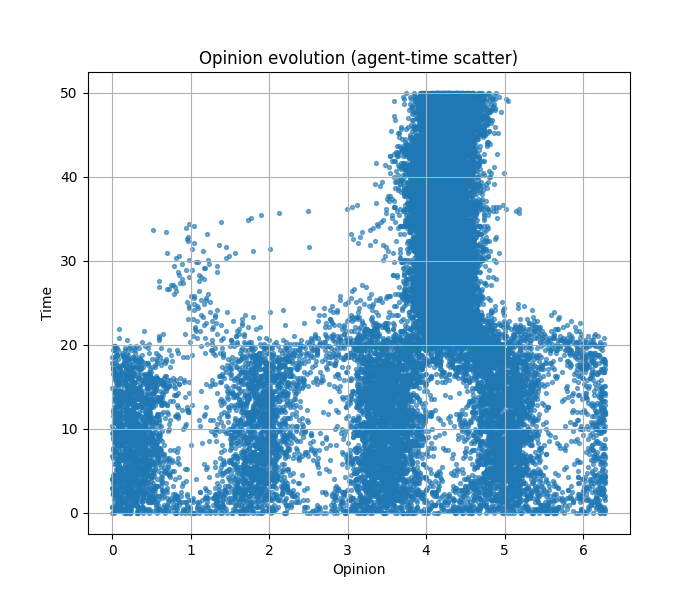
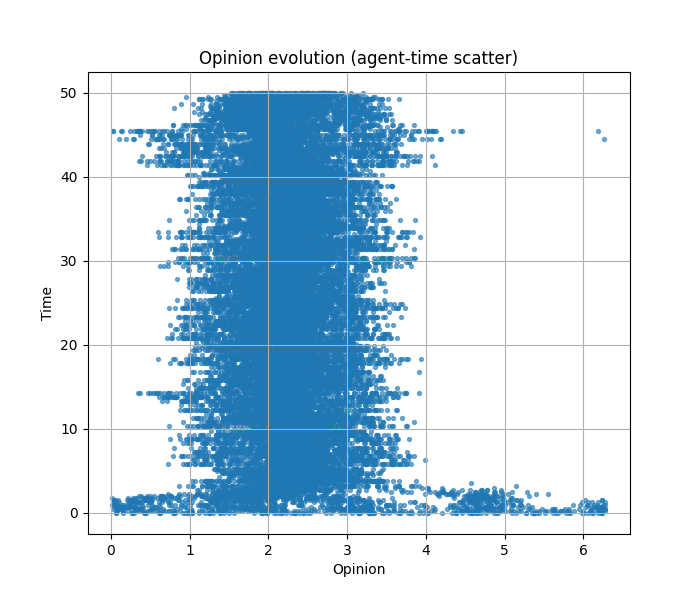
adding infections co-evolution

diff --git a/co_evolution.py b/co_evolution.py
@@ -1,0 +1,271 @@
+#!/usr/bin/env python3
+# -*- coding: utf-8 -*-
+"""
+Created on Sun Feb  1 18:47:31 2026
+
+@author: jschlieffen
+"""
+
+#!/usr/bin/env python3
+# -*- coding: utf-8 -*-
+"""
+Created on Fri Jan 30 16:13:54 2026
+
+@author: jschlieffen
+"""
+
+
+import numpy as np
+import matplotlib.pyplot as plt
+from log_msg import *
+# =============================================================================
+# TODO: make V and W params.
+# =============================================================================
+class opinion_dynamics:
+    
+    def __init__(self,num_grid_points, max_t,initial_opinions, noise_strength, interaction_distance,L, y0, stochiomatric_vector):
+        self.t = np.linspace(0,max_t,num_grid_points)
+        self.dt = self.t[1] - self.t[0]
+        self.X0 = initial_opinions
+        self.X = self.X0.copy()
+        self.sigma = noise_strength
+        self.L = L
+        self.d = interaction_distance
+        self.history = [self.X.copy()] #for plot_cls
+        self.y = np.array(y0, dtype=float)
+        self.nu = np.array(stochiomatric_vector)
+        self.y_history = [self.y.copy()] #for plot_cls
+        
+    def grad_V(self, x, y):
+        return 0.1 * np.sin(x - y)
+    
+    def grad_W(self, x_diff, y):
+        return (np.sin(x_diff) + np.sin(4*x_diff)) * (1 + 0.2*y)
+
+    
+    def wrap(self, x):
+        return x % self.L
+    
+    def torus_diff(self, x, y):
+        return (x - y + self.L/2) % self.L - self.L/2
+    
+    def algo(self):
+        N,d = self.X.shape
+        for _ in self.t[1:]:
+            #updating the infection numbers
+            self.update_y()
+            #calc. of V
+            drift_V = np.array([self.grad_V(self.X[k],self.y) for k in range(N)])
+            #drift_V = np.zeros(N,N)
+            drift_W = np.zeros_like(self.X)
+            #calc. of sum W
+            for k in range(N):
+                for j in range(N):
+                    if j !=k:
+                        dx = self.torus_diff(self.X[k], self.X[j])
+                        drift_W[k] += self.grad_W(dx,self.y)
+            drift_W /= N
+            # Brownian increment
+            dB = np.sqrt(self.dt) * np.random.randn(N, d)
+            self.X += -drift_V * self.dt - drift_W * self.dt + self.sigma * dB
+            self.X = self.wrap(self.X)
+            self.history.append(self.X.copy())
+            self.y_history.append(self.y.copy())
+        self.history = np.array(self.history)
+        self.y_history = np.array(self.y_history)
+
+
+    def alpha(self, X, y):
+        beta0 = 0.5
+        gamma = 0.25    
+        y_star = 20
+        delta = 0.1     
+        suppression = 1.0 / (1.0 + delta * max(y - y_star, 0.0))
+    
+        alpha_infect = beta0 * y * suppression
+        alpha_recover = gamma * y
+    
+        return np.array([alpha_infect, alpha_recover])
+
+
+    def alpha_V3(self, X, y):
+        return np.array([
+            0.2,        
+            0.1 * y       
+        ])
+
+    def alpha_V2(self, X, y):
+        mean_x = np.mean(X)
+        return np.array([
+            0.5 + 0.1 * np.abs(mean_x - y),
+            0.2 + 0.05 * y**2
+        ])
+
+    def update_y(self):
+        alphas = self.alpha(self.X, self.y)
+        
+        for k, alpha_k in enumerate(alphas):
+            n_jumps = np.random.poisson(alpha_k * self.dt)  # Poisson process
+            self.y += n_jumps * self.nu[k]
+
+
+class Plots_cls:
+    def __init__(self, opinions_model):
+        self.model = opinions_model
+        self.history = opinions_model.history
+        self.t = opinions_model.t       
+        self.y_history = opinions_model.y_history
+
+    def plot_trajectories(self):
+        """
+        Plot opinion evolution over time
+        """
+        num_steps, N, d = self.history.shape
+        
+        plt.figure(figsize=(8, 5))
+        for i in range(N):
+            plt.plot(self.t, self.history[:, i, 0], alpha=0.7)
+        
+        plt.xlabel("Time")
+        plt.ylabel("Opinion")
+        plt.title("Opinion trajectories")
+        plt.grid(True)
+        #plt.show()
+        plt.savefig('plots/trajectories.png')
+
+    def plot_final_histogram(self, bins=20):
+        """
+        Histogram of final opinions
+        """
+        final_opinions = self.history[-1, :, 0]
+        
+        plt.figure(figsize=(6, 4))
+        plt.hist(final_opinions, bins=bins, density=True, alpha=0.7)
+        plt.xlabel("Opinion")
+        plt.ylabel("Density")
+        plt.title("Final opinion distribution")
+        plt.grid(True)
+        plt.show()
+        
+    def plot_opinion_time_scatter(self):
+        """
+        Scatter plot:
+        x-axis = opinion
+        y-axis = time
+        each dot = one agent
+        """
+        T, N, d = self.history.shape
+
+        # Flatten data
+        opinions = self.history[:, :, 0].flatten()
+        times = np.repeat(self.t, N)
+
+        plt.figure(figsize=(7, 6))
+        plt.scatter(opinions, times, s=8, alpha=0.6)
+        plt.xlabel("Opinion")
+        plt.ylabel("Time")
+        plt.title("Opinion evolution (agent-time scatter)")
+        plt.grid(True)
+        #plt.show()
+        plt.savefig('plots/dots.png')
+        
+        
+    def plot_infection_time_series_V2(self):
+        plt.figure(figsize=(7, 4))
+        plt.plot(self.t, self.y_history, lw=2)
+        plt.xlabel("Time")
+        plt.ylabel("Infection level")
+        plt.title("Infection dynamics")
+        plt.grid(True)
+        plt.show()
+        plt.savefig("plots/infection_time_series.png")
+        
+    def plot_infection_time_series(self):
+        y = self.y_history
+    
+        if y.ndim == 1:
+            y = y[:, None]
+    
+        m = y.shape[1]
+    
+        plt.figure(figsize=(7, 4))
+        for i in range(m):
+            plt.plot(self.t, y[:, i], label=f"$y_{i}$")
+    
+        plt.xlabel("Time")
+        plt.ylabel("Infection level")
+        plt.title("Infection dynamics")
+        plt.legend()
+        plt.grid(True)
+        #plt.show()
+        plt.savefig("plots/infection_time_series.png")
+        
+    def plot_infection_steps(self):
+        y = self.y_history
+        if y.ndim == 1:
+            y = y[:, None]
+    
+        plt.figure(figsize=(7, 4))
+        for i in range(y.shape[1]):
+            plt.step(self.t, y[:, i], where="post", label=f"$y_{i}$")
+    
+        plt.xlabel("Time")
+        plt.ylabel("Infection level")
+        plt.title("Infection jump process")
+        plt.legend()
+        plt.grid(True)
+        #plt.show()
+        plt.savefig("plots/infection_steps.png")
+
+    def plot_infection_vs_mean_opinion(self):
+        mean_opinion = self.history[:, :, 0].mean(axis=1)
+        y = self.y_history
+    
+        fig, ax1 = plt.subplots(figsize=(7, 4))
+    
+        ax1.plot(self.t, mean_opinion, color="tab:blue")
+        ax1.set_xlabel("Time")
+        ax1.set_ylabel("Mean opinion", color="tab:blue")
+        ax1.tick_params(axis="y", labelcolor="tab:blue")
+    
+        ax2 = ax1.twinx()
+        ax2.step(self.t, y, where="post", color="tab:red")
+        ax2.set_ylabel("Infection level", color="tab:red")
+        ax2.tick_params(axis="y", labelcolor="tab:red")
+    
+        plt.title("Coupling between infection and opinion dynamics")
+        fig.tight_layout()
+        #plt.show()
+        plt.savefig("plots/infection_vs_opinion.png")
+
+        
+def main():
+    # Parameters
+    N = 128
+    dim = 1
+    #initial_opinions = np.random.uniform(-1, 1, size=(N, 1))
+    initial_opinions = np.random.uniform(0, 2*np.pi, size=(N, 1))
+    model = opinion_dynamics(
+        num_grid_points=200,
+        max_t=50.0,
+        initial_opinions=initial_opinions,
+        noise_strength=0.4,
+        interaction_distance=0.001,
+        L = 2*np.pi,
+        y0 = 25.0,
+        stochiomatric_vector = [1.0, -1.0]
+    )
+    logger.status('start algo')
+    model.algo()
+    logger.success('finish algo')
+    logger.status('start plots')
+    plots = Plots_cls(model)
+    plots.plot_trajectories()
+    #plots.plot_final_histogram()
+    plots.plot_opinion_time_scatter()
+    plots.plot_infection_time_series()
+    plots.plot_infection_steps()
+    plots.plot_infection_vs_mean_opinion()
+    logger.success('finish plots')
+if __name__ == '__main__':
+    main()
